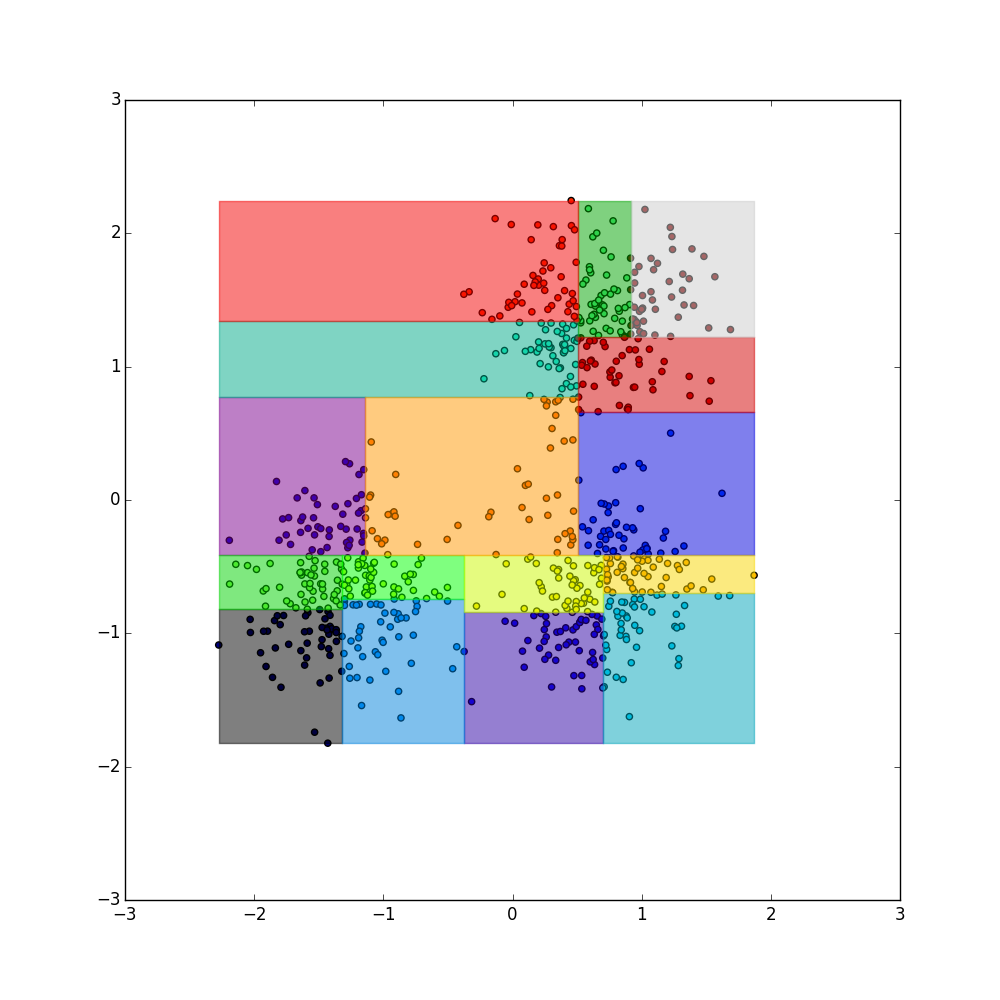
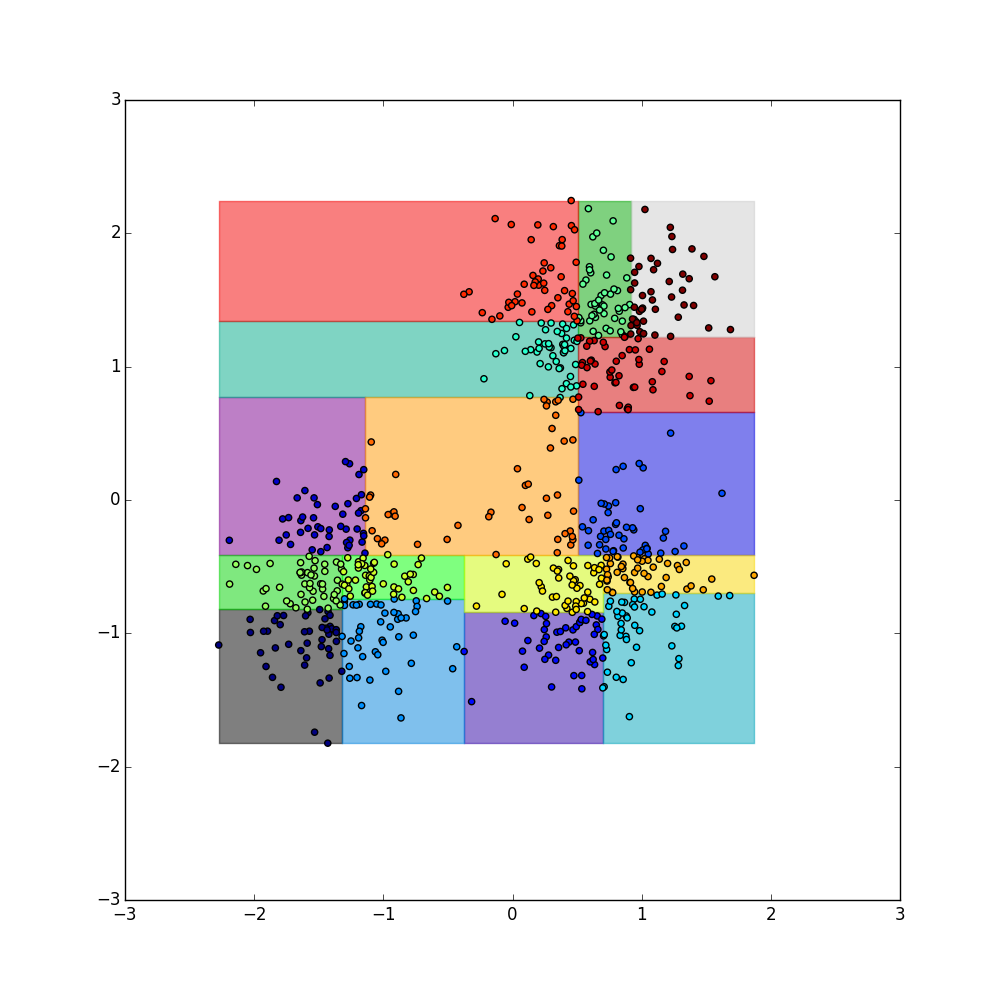
Remake plots

diff --git a/dbscan.py b/dbscan.py
@@ -218,8 +218,6 @@ if __name__ == '__main__':
     colors = cm.spectral(np.linspace(0, 1, len(dbscan.bounding_boxes)))
     if not os.access('plots', os.F_OK):
         os.mkdir('plots')
-    if not os.access('plots/partitions', os.F_OK):
-        os.mkdir('plots/partitions')
     for i, t in enumerate(temp):
         x = [t2[1][0] for t2 in t]
         y = [t2[1][1] for t2 in t]
@@ -232,14 +230,14 @@ if __name__ == '__main__':
         ax = fig.add_subplot(111)
         ax.add_patch(
             patches.Rectangle(box1.lower, *(box1.upper - box1.lower),
-                              alpha=0.4,
-                              color=colors[i]))
-        ax.add_patch(patches.Rectangle(box2.lower, *(box2.upper - box2.lower),
-                                       fill=False))
-        plt.scatter(x, y, c=c)
+                              alpha=0.4, color=colors[i], zorder=0))
+        ax.add_patch(
+            patches.Rectangle(box2.lower, *(box2.upper - box2.lower),
+                              fill=False, zorder=0))
+        plt.scatter(x, y, c=c, zorder=1)
         plt.xlim(-3, 3)
         plt.ylim(-3, 3)
-        plt.savefig('plots/partitions/partion_%i.png' % i)
+        plt.savefig('plots/partition_%i.png' % i)
         plt.close()
     x = X[:, 0]
     y = X[:, 1]
@@ -248,4 +246,15 @@ if __name__ == '__main__':
     plt.xlim(-3, 3)
     plt.ylim(-3, 3)
     plt.savefig('plots/clusters.png')
+    plt.close()
+    fig = plt.figure(figsize=(10, 10))
+    ax = fig.add_subplot(111)
+    for i, b in dbscan.bounding_boxes.iteritems():
+        ax.add_patch(
+            patches.Rectangle(b.lower, *(b.upper - b.lower),
+                              color=colors[i], alpha=0.5, zorder=0))
+    plt.scatter(x, y, c=clusters, zorder=1)
+    plt.xlim(-3, 3)
+    plt.ylim(-3, 3)
+    plt.savefig('plots/clusters_partitions.png')
     plt.close()

diff --git a/partition.py b/partition.py
@@ -166,10 +166,12 @@ if __name__ == '__main__':
     for label, box in kdpart.bounding_boxes.iteritems():
         ax.add_patch(
             patches.Rectangle(box.lower, *(box.upper - box.lower),
-                              alpha=0.5,
-                              color=colors[label]))
-    plt.scatter(x, y, c=partitions)
+                              alpha=0.5, color=colors[label], zorder=0))
+    plt.scatter(x, y, c=partitions, zorder=1)
     if not os.access('plots', os.F_OK):
         os.mkdir('plots')
     plt.savefig('plots/partitioning.png')
+    plt.close()
+    plt.scatter(x, y)
+    plt.savefig('plots/toy_data.png')
     plt.close()
